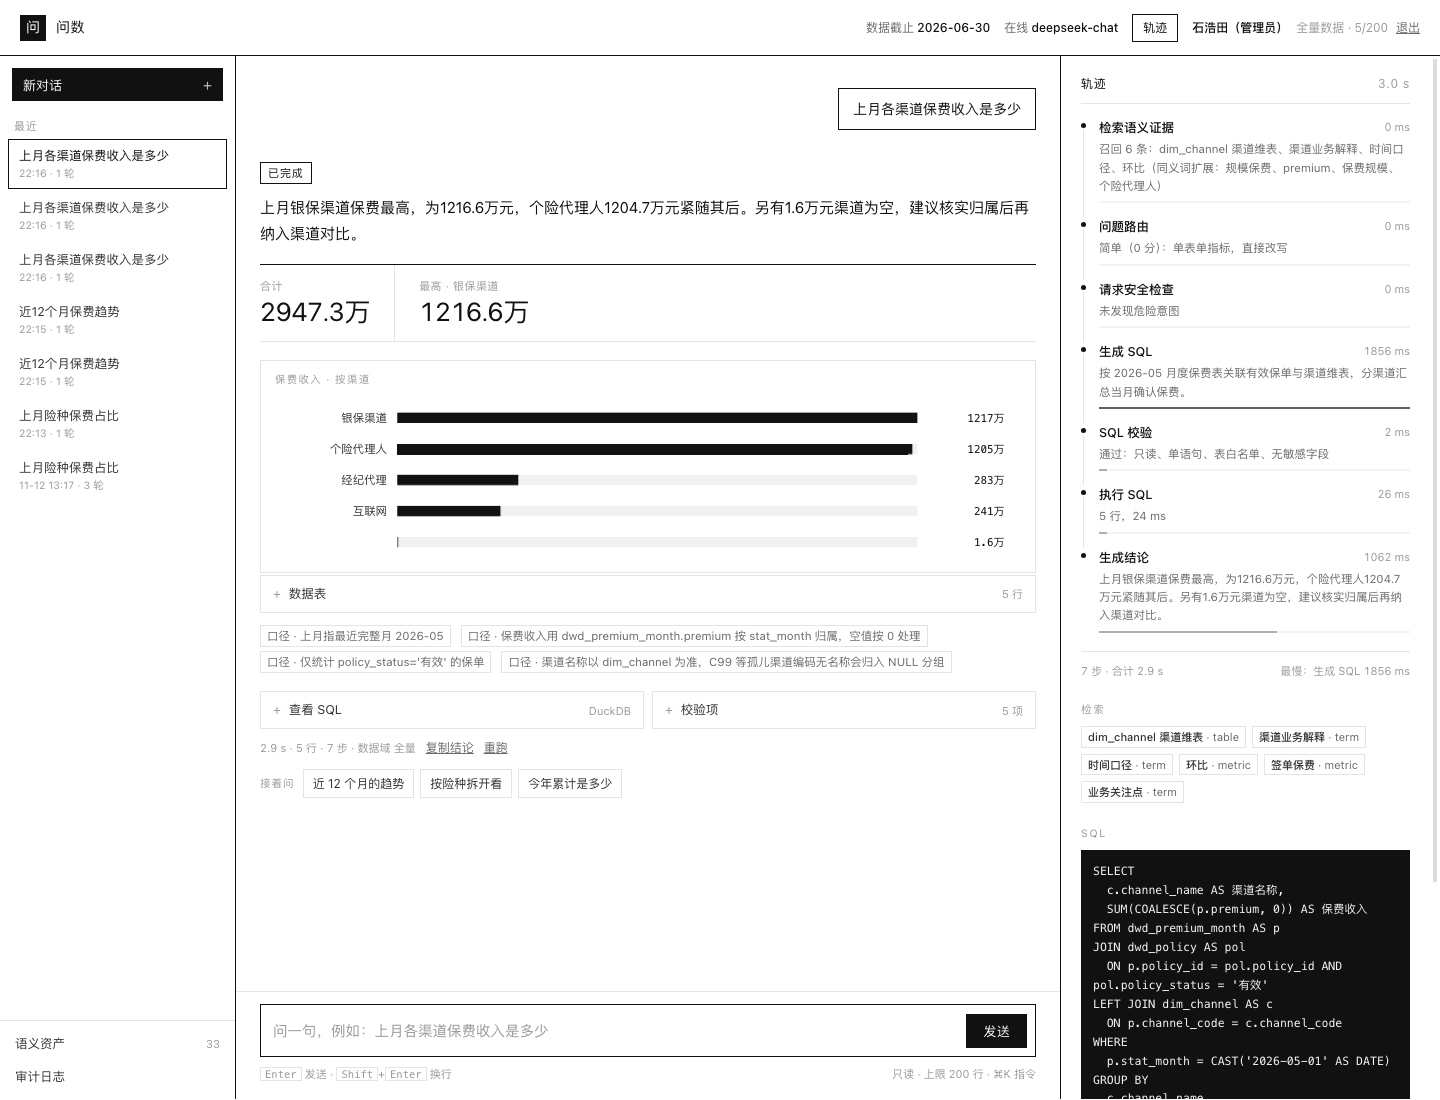
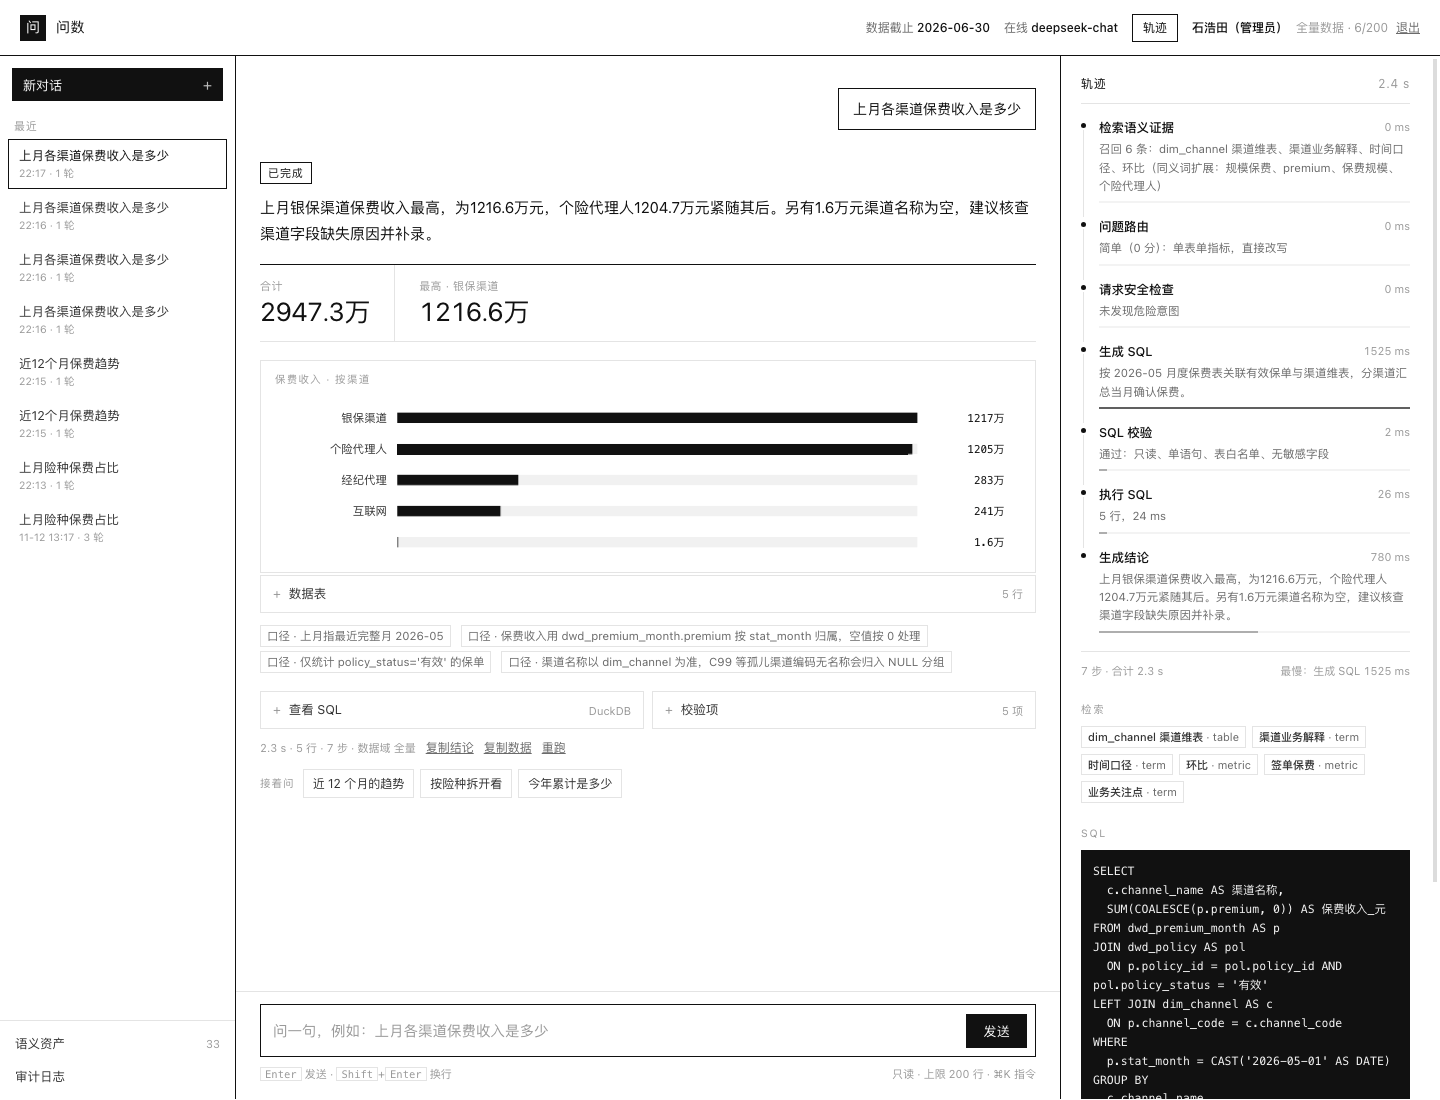
feat(web): 复制数据进 meta 行、空标签显示未归属、轨迹未执行态文案

diff --git a/web/app.js b/web/app.js
@@ -735,14 +735,6 @@
     const right = document.createElement('span');
     right.className = 'result-right';
     right.textContent = `${data.row_count} 行${data.truncated ? ' · 已截断' : ''}`;
-    if (rows.length) {
-      const copy = document.createElement('button');
-      copy.type = 'button';
-      copy.className = 'link-btn';
-      copy.textContent = '复制 CSV';
-      copy.addEventListener('click', () => copyCsv(data));
-      right.appendChild(copy);
-    }
     head.appendChild(right);
 
     const table = document.createElement('div');
@@ -780,7 +772,7 @@
     return ok ? '已复制' : '复制失败';
   }
 
-  async function copyCsv(data) {
+  async function copyCsv(data, silent) {
     const esc2 = (v) => {
       const t = v == null ? '' : String(v);
       return /[",\n]/.test(t) ? `"${t.replace(/"/g, '""')}"` : t;
@@ -790,8 +782,8 @@
     const text = lines.join('\n');
     try {
       await navigator.clipboard.writeText(text);
-      toast('已复制 CSV');
-      return;
+      if (!silent) toast('已复制 CSV');
+      return '已复制';
     } catch { /* 退回到 execCommand */ }
     const ta = document.createElement('textarea');
     ta.value = text;
@@ -802,7 +794,8 @@
     let ok = false;
     try { ok = document.execCommand('copy'); } catch { ok = false; }
     ta.remove();
-    toast(ok ? '已复制 CSV' : '复制失败，请手动选择');
+    if (!silent) toast(ok ? '已复制 CSV' : '复制失败，请手动选择');
+    return ok ? '已复制' : '复制失败';
 
   }
 
@@ -904,6 +897,17 @@
       setTimeout(() => (copyAnswer.textContent = '复制结论'), 1500);
     });
     meta.appendChild(copyAnswer);
+    if ((data.rows || []).length) {
+      const copyRows = document.createElement('button');
+      copyRows.type = 'button';
+      copyRows.className = 'link-btn';
+      copyRows.textContent = '复制数据';
+      copyRows.addEventListener('click', async () => {
+        copyRows.textContent = await copyCsv(data, true);
+        setTimeout(() => (copyRows.textContent = '复制数据'), 1500);
+      });
+      meta.appendChild(copyRows);
+    }
     if (data.question && data.status === 'ok') {
       const again = document.createElement('button');
       again.type = 'button';
